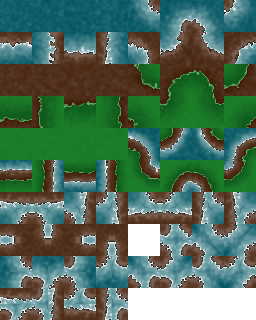
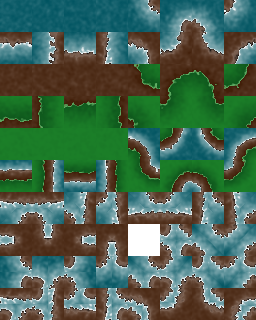
added tiles for senerios where there is dirt on 2 sides and the opposite corner

Changed region(s): [[0.5, 0.875, 1.0, 1.0]]

diff --git a/tiles.js b/tiles.js
@@ -43,10 +43,10 @@ function getTile(x, y, width, height) {
 		dirt_right = true;
 	}
 
-	// // dirt on 4 sides
-	// if(dirt_above && dirt_right && dirt_below && dirt_above) {
-	// 	return [0,2]; // return dirt
-	// }
+	// dirt on 4 sides
+	if(dirt_above && dirt_right && dirt_below && dirt_above) {
+		return [0,2]; // return dirt
+	}
 
 	// dirt on 3 sides
 	if(dirt_above && dirt_right && dirt_below) {
@@ -60,20 +60,6 @@ function getTile(x, y, width, height) {
 	}
 	if(dirt_left && dirt_above && dirt_right) {
 		return [3,7];
-	}
-
-	// dirt on 2 sides
-	if(dirt_above && dirt_right) {
-		return [4,1];
-	}
-	if(dirt_right && dirt_below) {
-		return [5,1];
-	}
-	if(dirt_below && dirt_left) {
-		return [6,1];
-	}
-	if(dirt_left && dirt_above) {
-		return [7,1];
 	}
 
 	// dirt on corner
@@ -94,6 +80,37 @@ function getTile(x, y, width, height) {
 	if(x > 0 && y > 0 && grid[x-1][y-1] == DIRT) {
 		dirt_top_left = true;
 	}
+
+	// dirt on 2 sides
+	if(dirt_above && dirt_right) {
+		// dirt on corner
+		if(dirt_bottom_left) {
+			return [4,9];
+		}
+		return [4,1];
+	}
+	if(dirt_right && dirt_below) {
+		// dirt on corner
+		if(dirt_top_left) {
+			return [5,9];
+		}
+		return [5,1];
+	}
+	if(dirt_below && dirt_left) {
+		// dirt on corner
+		if(dirt_top_right) {
+			return [6,9];
+		}
+		return [6,1];
+	}
+	if(dirt_left && dirt_above) {
+		// dirt on corner
+		if(dirt_bottom_right) {
+			return [7,9];
+		}
+		return [7,1];
+	}
+
 
 	// dirt on 1 side
 	if(dirt_above) {
